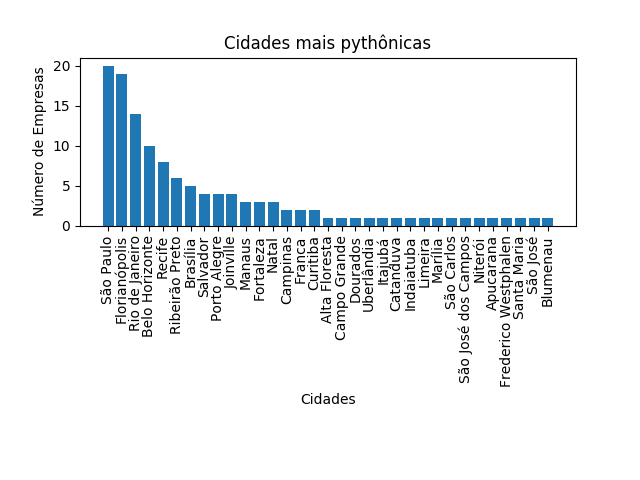
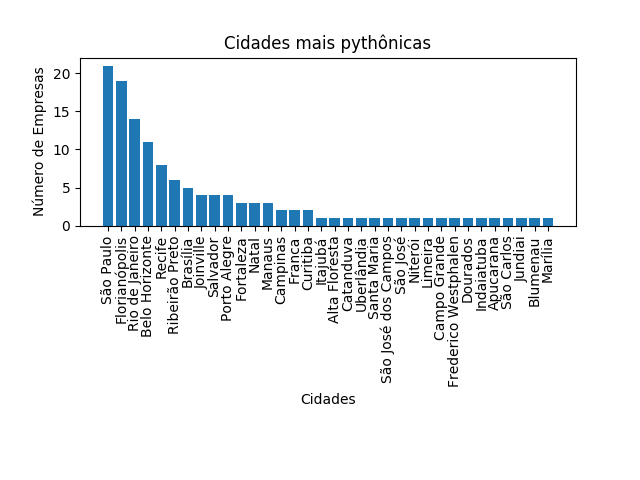
Added Superbuy at Belo Horizonte - MG (#103)

diff --git a/README.md b/README.md
@@ -86,7 +86,7 @@ Logo | Empresa | Site | Contato | Vagas
 
 Logo | Empresa | Site | Contato | Vagas
  --- | --- | --- | --- | ---
-![logo](logos/default.png) | Avalue Sistemas | [http://www.avaluesistemas.com.br](http://www.avaluesistemas.com.br) | site ainda a lançar 
+![logo](logos/default.png) | Avalue Sistemas | [http://www.avaluesistemas.com.br](http://www.avaluesistemas.com.br) | site ainda a lançar
 
 #### Dourados
 
@@ -121,6 +121,7 @@ Logo | Empresa | Site | Contato | Vagas
 ![logo](logos/prodap.png) | Prodap | [http://www.prodap.com.br/pt/](http://www.prodap.com.br/pt/) | 55 31 3555-0800
 ![logo](logos/studiosol.png) | StudioSol | [http://www.studiosol.com.br/](http://www.studiosol.com.br/) | 55 31 2127-2540
 ![logo](logos/silex-sistemas.png) | Sílex Sistemas | [http://www.silexsistemas.com.br/](http://www.silexsistemas.com.br/) | 55 31 3273-1530
+![logo](logos/superbuy.png) | Superbuy | [http://www.superbuy.com.br/](http://www.superbuy.com.br/) | 55 31 3071-4800
 ![logo](logos/tivit.png) | TIVIT | [http://www.tivit.com/](http://www.tivit.com/)
 ![logo](logos/default.png) | ThoughtWorks | [https://www.thoughtworks.com/pt](https://www.thoughtworks.com/pt) | [https://www.thoughtworks.com/pt/careers](https://www.thoughtworks.com/pt/careers)
 ![logo](logos/elipse.png) | Elipse Software | [https://www.elipse.com.br](https://www.elipse.com.br) | vendas-mg@elipse.com.br +55 (31) 4062 5824
